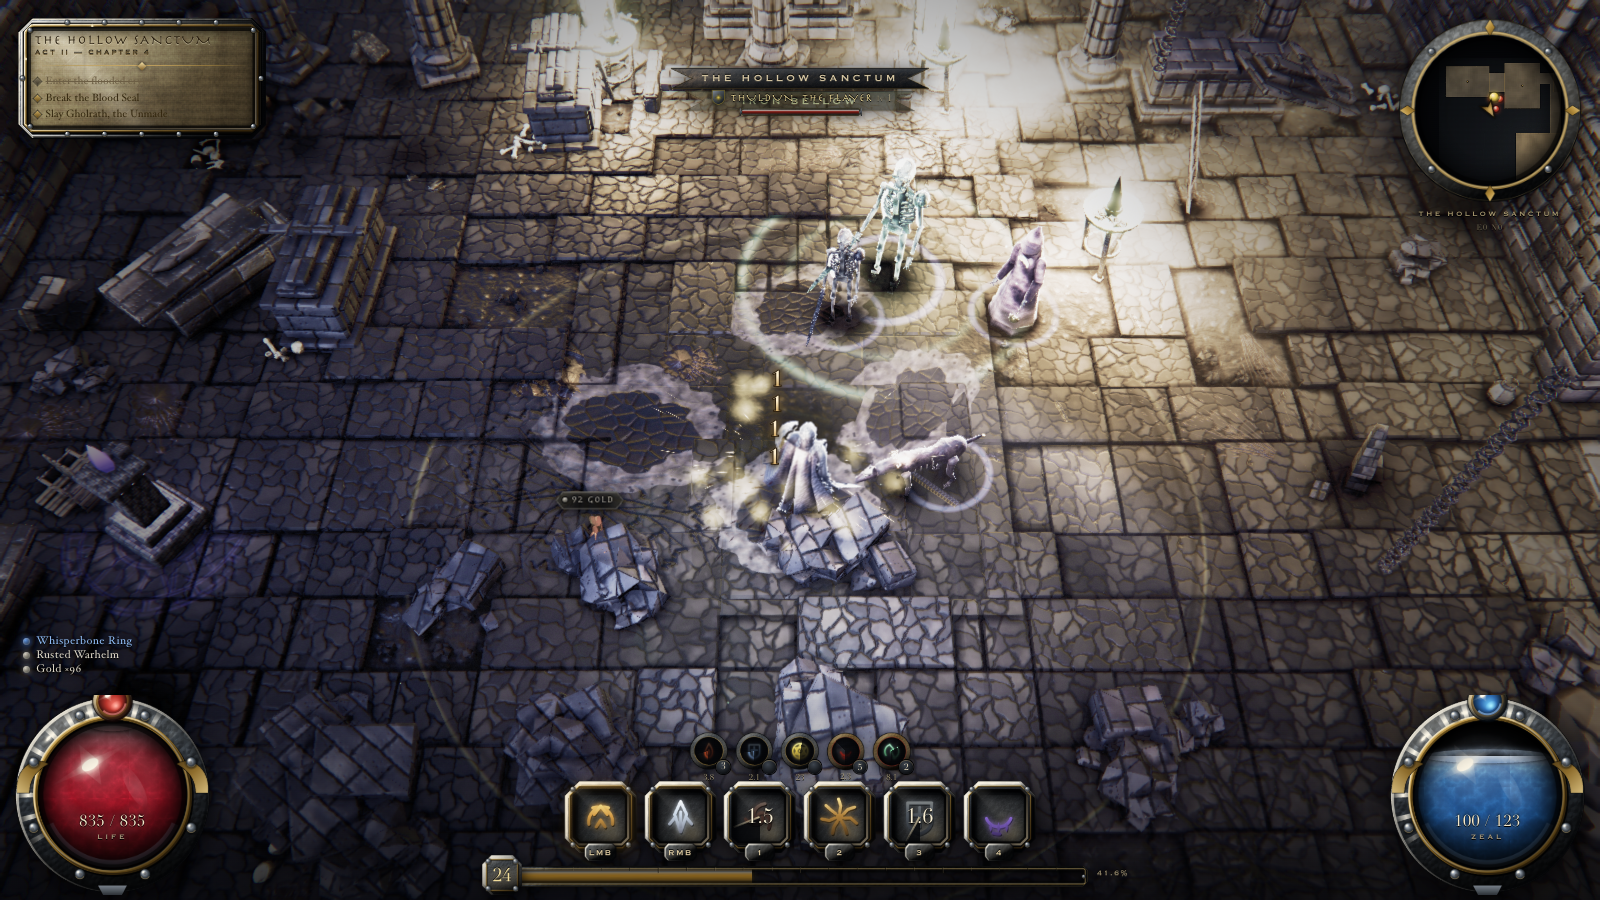
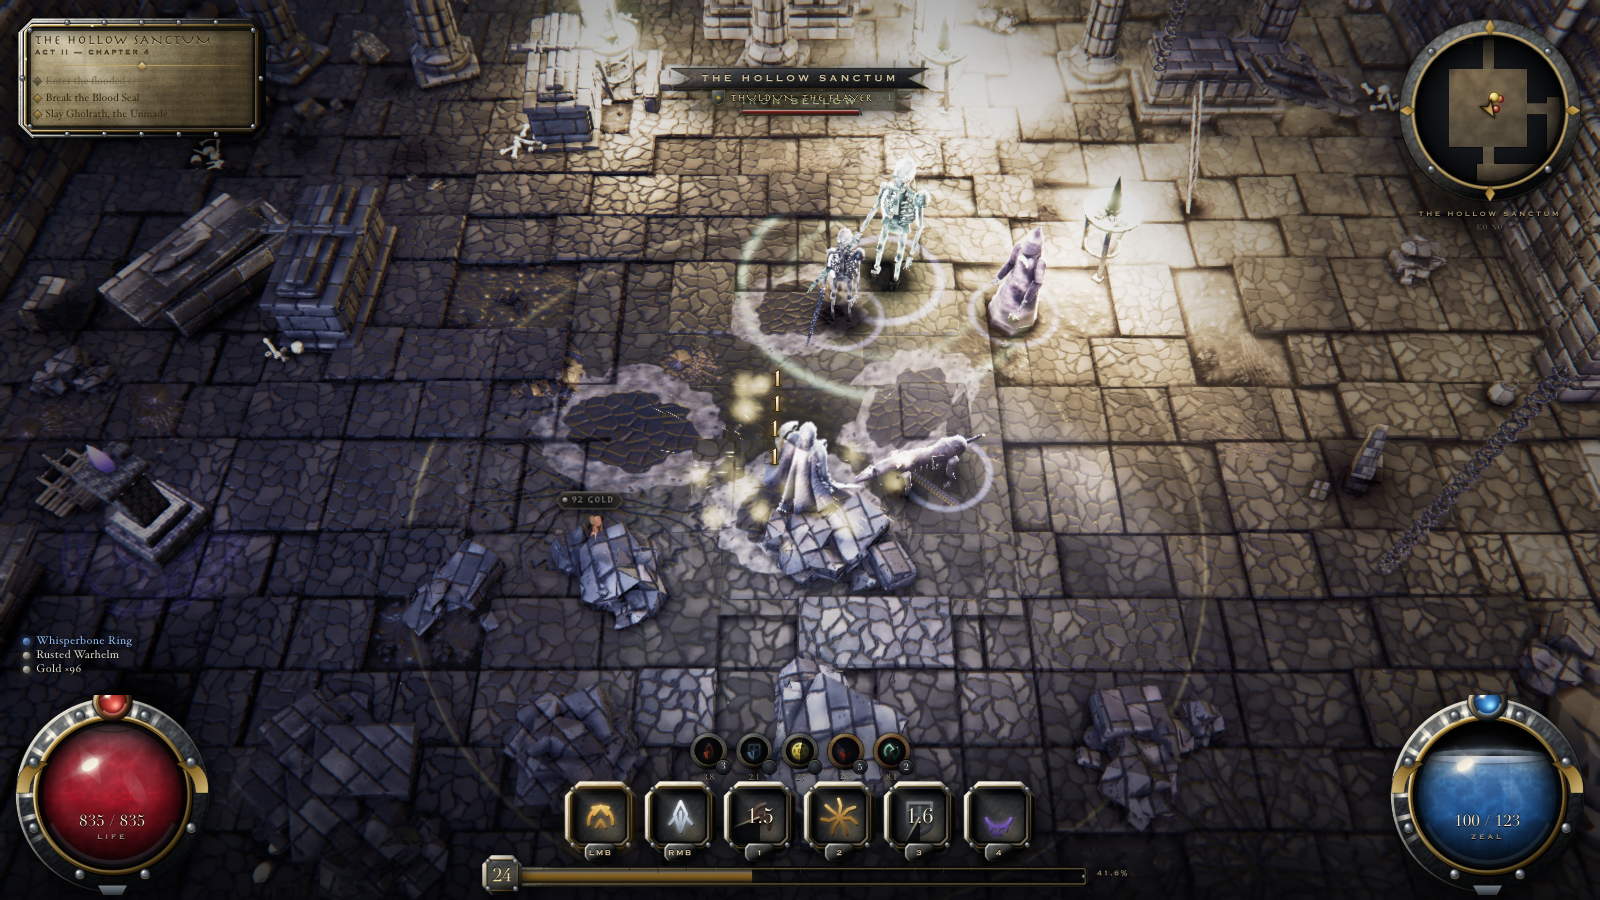
minimap, motion blur, dynamic resolution: fix the map, the sliding floor and the frame rate
Minimap: CSS background-position percentages are not offsets. p% places
the image at (container - image) * p, so the plate was panned to the
wrong place and the arrow sat in solid rock. Position is now
(0.5 - f*k) / (1 - k) for image/disc ratio k. Checked live: the hero's
cell is open floor, and the arrow sits in the corridor on the map.

Motion blur: velocity was the camera's movement between rendered frames.
At low frame rates one render spans several simulation ticks (measured:
1.3-2.2 on average, up to 5), so the follow camera's step hit the clamp
and the whole floor streaked around a walking hero. It is now per tick:
divided by the ticks since the last render. The capture harness renders
once per tick, so it is unaffected.

Frame rate: ultra rendered at the full 2x Retina pixel ratio, 4x the
pixels through SSR, GTAO and volumetrics (measured 16 fps at 1920x1080,
45-68 at 1x). Ultra now stops at 1.5x. The live loop also gets a dynamic
resolution governor: down a step below ~45 fps, back up above ~75 fps
with 4 s of hysteresis, steps 1 / 0.85 / 0.72 / 0.6. It is off for ?shot=
and headless. Measured at 1920x1080 with DPR 2: it settles at 0.9x and
54-57 fps.

shots/: the captures include the HUD, so the corrected minimap changes
every frame that shows it (dungeon and overworld differ only in the
minimap box). Recaptured all eight, which also replaces the three frames
that had already drifted on main (boss, hub, inventory). Seven reproduce
[…]

Changed region(s): [[0.9062, 0.0311, 0.9688, 0.2178]]

diff --git a/src/core/Engine.js b/src/core/Engine.js
@@ -56,6 +56,15 @@ export class Engine {
 
     this.quality = this._detectQuality();
     this.headless = new URLSearchParams(location.search).has('headless');
+
+    /* Dynamic resolution. The live loop scales the render pixel ratio down
+       when frames run long and back up when there is headroom; see
+       `_governResolution`. Off for the capture harness (`?shot=`, headless),
+       whose frames must not depend on how fast the machine is. */
+    this.renderScale = 1;
+    this._resIdx = 0;
+    this._resWin = { ms: 0, n: 0, changedAt: 0 };
+    this._resGovern = !this.headless && !new URLSearchParams(location.search).has('shot');
     this.paused = false;
 
     this._modules = new Map();
@@ -79,7 +88,9 @@ export class Engine {
       low:   { tier: 'low',   shadowRes: 1024, cascades: 2, ssao: false, ssr: false, taa: false, volumetric: false, dpr: Math.min(dpr, 1) },
       med:   { tier: 'med',   shadowRes: 2048, cascades: 3, ssao: true,  ssr: false, taa: true,  volumetric: true,  dpr: Math.min(dpr, 1) },
       high:  { tier: 'high',  shadowRes: 2048, cascades: 4, ssao: true,  ssr: true,  taa: true,  volumetric: true,  dpr: Math.min(dpr, 1.5) },
-      ultra: { tier: 'ultra', shadowRes: 4096, cascades: 4, ssao: true,  ssr: true,  taa: true,  volumetric: true,  dpr: Math.min(dpr, 2) },
+      // ultra stops at 1.5x: a full 2x Retina buffer is 4x the pixels through
+      // SSR, GTAO and volumetrics, measured at 16 fps where 1x ran 45-68.
+      ultra: { tier: 'ultra', shadowRes: 4096, cascades: 4, ssao: true,  ssr: true,  taa: true,  volumetric: true,  dpr: Math.min(dpr, 1.5) },
     };
     /* Own-property check, NOT `TIERS[tier] ?? null`. `??` only catches
        null/undefined, so an inherited Object.prototype member survives it:
@@ -161,7 +172,7 @@ export class Engine {
     const w = this.container.clientWidth || innerWidth;
     const h = this.container.clientHeight || innerHeight;
     this.width = w; this.height = h;
-    this.renderer.setPixelRatio(this.quality.dpr);
+    this.renderer.setPixelRatio(this.quality.dpr * this.renderScale);
     this.renderer.setSize(w, h, false);
     this.camera.aspect = w / h;
     this.camera.updateProjectionMatrix();
@@ -217,6 +228,7 @@ export class Engine {
     let frameMs = now - this._last;
     this._last = now;
     this.profiler.frame(frameMs);
+    if (this._resGovern) this._governResolution(frameMs, now);
     if (this.paused) { this.renderFrame(); return; }
 
     // Clamp so a stall never produces a spiral of death.
@@ -229,6 +241,29 @@ export class Engine {
     }
     this.clock.alpha = this._acc / FIXED_DT;
     this.renderFrame();
+  }
+
+  /**
+   * Step the render scale over one-second windows of real frame time: down a
+   * step below ~45 fps, back up above ~75 fps once the last change is 4 s old.
+   * The hysteresis keeps it from flapping, and the window after a change is
+   * discarded so the resize itself is not counted against the new scale.
+   */
+  _governResolution(ms, now) {
+    if (ms > 250) return;                       // a stall or a background tab, not load
+    const w = this._resWin;
+    w.ms += ms; w.n++;
+    if (w.ms < 1000) return;
+    const avg = w.ms / w.n;
+    w.ms = 0; w.n = 0;
+    let idx = this._resIdx;
+    if (avg > 1000 / 45 && idx < RES_STEPS.length - 1) idx++;
+    else if (avg < 1000 / 75 && idx > 0 && now - w.changedAt > 4000) idx--;
+    if (idx === this._resIdx) return;
+    this._resIdx = idx;
+    this.renderScale = RES_STEPS[idx];
+    w.changedAt = now;
+    this._onResize();
   }
 
   /**
@@ -253,6 +288,9 @@ export class Engine {
     this.renderer.dispose();
   }
 }
+
+/** Render-scale ladder for `_governResolution`, as fractions of the tier's pixel ratio. */
+const RES_STEPS = [1, 0.85, 0.72, 0.6];
 
 function hashStr(s) {
   let h = 2166136261;

diff --git a/src/render/passes/MotionBlurPass.js b/src/render/passes/MotionBlurPass.js
@@ -10,6 +10,7 @@ uniform sampler2D tDepth;
 uniform mat4  uInvViewProj;
 uniform mat4  uPrevViewProj;
 uniform float uIntensity;
+uniform float uTicks;
 uniform float uMaxRadius;
 uniform float uNear;
 uniform float uFar;
@@ -31,7 +32,7 @@ void main() {
   if ( prevClip.w <= 0.0 ) { gl_FragColor = base; return; }
   vec2 prevUv = ( prevClip.xy / prevClip.w ) * 0.5 + 0.5;
 
-  vec2 vel = ( vUv - prevUv ) * uIntensity;
+  vec2 vel = ( vUv - prevUv ) * ( uIntensity / uTicks );
   float len = length( vel );
   if ( len < 0.0006 ) { gl_FragColor = base; return; }
   if ( len > uMaxRadius ) vel *= uMaxRadius / len;
@@ -60,6 +61,13 @@ void main() {
  * with last frame's view-projection. Deterministic (both matrices come from the
  * fixed-step simulation), clamped to a few pixels, and skipped entirely for a
  * couple of frames after a camera teleport so scenario switches never smear.
+ *
+ * The velocity is per simulation TICK, not per rendered frame. Taken per frame,
+ * the smear grew with frame time: at 16 fps every render spans ~4 ticks, the
+ * follow camera's step hit the clamp on every pixel, and the whole floor
+ * streaked around a walking hero. Dividing by the ticks since the last render
+ * makes the blur the same at any frame rate. The capture harness renders once
+ * per tick, so its frames are unchanged.
  */
 export class MotionBlurPass extends QuadPass {
   constructor({ camera, depthTexture, params, taps = 7 }) {
@@ -71,6 +79,7 @@ export class MotionBlurPass extends QuadPass {
         uInvViewProj: { value: new THREE.Matrix4() },
         uPrevViewProj: { value: new THREE.Matrix4() },
         uIntensity: { value: 0.5 },
+        uTicks: { value: 1 },
         uMaxRadius: { value: 0.012 },
         uNear: { value: camera.near },
         uFar: { value: camera.far },
@@ -87,6 +96,8 @@ export class MotionBlurPass extends QuadPass {
     this._invViewProj = new THREE.Matrix4();
     this._skip = 2;
     this._primed = false;
+    this._lastTick = -1;
+    this._ticks = 1;
   }
 
   setDepthTexture(depthTexture) {
@@ -99,8 +110,12 @@ export class MotionBlurPass extends QuadPass {
     this._primed = false;
   }
 
-  /** Call once per rendered frame, before the composer runs. */
-  updateMatrices() {
+  /** Call once per rendered frame, before the composer runs, with the sim tick count. */
+  updateMatrices(tick) {
+    if (Number.isFinite(tick)) {
+      this._ticks = this._lastTick >= 0 ? Math.max(1, tick - this._lastTick) : 1;
+      this._lastTick = tick;
+    }
     const cam = this.camera;
     cam.updateMatrixWorld();
     if (this._primed) this._prevViewProj.copy(this._viewProj);
@@ -121,6 +136,7 @@ export class MotionBlurPass extends QuadPass {
     this.uniforms.uInvViewProj.value.copy(this._invViewProj);
     this.uniforms.uPrevViewProj.value.copy(this._prevViewProj);
     this.uniforms.uIntensity.value = p.motionBlur;
+    this.uniforms.uTicks.value = this._ticks;
     this.uniforms.uMaxRadius.value = p.motionBlurMax;
     this.uniforms.uNear.value = this.camera.near;
     this.uniforms.uFar.value = this.camera.far;

diff --git a/src/ui/panels/Minimap.js b/src/ui/panels/Minimap.js
@@ -300,8 +300,14 @@ export class Minimap {
     const scale = (this.footprint / this.windowM) * D;
     const fx = (hx - this.origin.x) / this.footprint;
     const fz = (hz - this.origin.z) / this.footprint;
+    /* A background-position percentage is not an offset: p% places the image
+       at (container - image) * p. The hero's point on the plate sits at the
+       disc centre when the image's left edge is at (0.5 - f * k) of the disc,
+       k = image / disc, so p = (0.5 - f * k) / (1 - k). */
+    const k = scale / D;
+    const pos = (f) => (Math.abs(1 - k) < 1e-6 ? 0 : ((0.5 - f * k) / (1 - k)) * D);
     this.map.style.backgroundSize = `${scale.toFixed(2)}% ${scale.toFixed(2)}%`;
-    this.map.style.backgroundPosition = `${(50 - fx * scale).toFixed(2)}% ${(50 - fz * scale).toFixed(2)}%`;
+    this.map.style.backgroundPosition = `${pos(fx).toFixed(3)}% ${pos(fz).toFixed(3)}%`;
 
     const yaw = hero?.yaw ?? 0;
     this.arrow.style.transform = `translate(-50%,-50%) rotate(${(yaw * 180 / Math.PI).toFixed(1)}deg)`;

diff --git a/src/render/RenderPipeline.js b/src/render/RenderPipeline.js
@@ -1541,7 +1541,7 @@ export class RenderPipeline {
       this._focus += (target - this._focus) * clamp(this.params.dofFocusLag, 0.01, 1);
       this.passes.dof.setFocus(this._focus);
     }
-    if (this.passes.motionBlur) this.passes.motionBlur.updateMatrices();
+    if (this.passes.motionBlur) this.passes.motionBlur.updateMatrices(this.engine.clock.frame);
     if (this.passes.grain) this.passes.grain.frame = this._frame;
     if (this.passes.composite) this.passes.composite.frame = this._frame;
 

diff --git a/KNOWN_ISSUES.md b/KNOWN_ISSUES.md
@@ -1,12 +1,17 @@
 # KNOWN ISSUES — authoritative open list
 
-Measured from the **eight captures committed in `3355968`** — "shots: recapture
-the crypt scenarios after the frost fix" — the last commit that touches `shots/`:
+Measured from the **eight captures recaptured with the minimap fix** (the
+captures include the HUD, and the minimap had been panned to the wrong place),
+the last commit that touches `shots/`:
 
 ```bash
-git log -1 --format='%h %s' -- shots/        # 3355968 shots: recapture the crypt scenarios after the frost fix
-git rev-list --count 3355968..HEAD -- shots/ # 0
+git log -1 --format='%h %s' -- shots/        # minimap, motion blur, dynamic resolution ...
 ```
+
+The previous set (`3355968`) had drifted before that: fresh captures differed
+from `boss` by 85.6%, `hub` by 3.9% and `inventory` by 1.6% of pixels. The new
+set reproduces: seven frames byte-identical on a second capture, `night` within
+1-5 px at Δ ≤ 6/255.
 
 The previous revision of this table said it was measured after the cascade fix
 `d2aad35`. That object is not in this repository (`git cat-file -t d2aad35` →
@@ -24,14 +29,14 @@ until the flags are at zero.
 
 | scenario | mean | sd | p01 | p99 | blk% | sat | colors | verdict |
 |---|---|---|---|---|---|---|---|---|
-| boss | 0.173 | 0.178 | 0 | 0.844 | 3.3 | 0.318 | 532 | in range |
+| boss | 0.191 | 0.202 | 0 | 0.906 | 2.4 | 0.314 | 582 | in range |
 | closeup | 0.259 | 0.207 | 0 | 0.781 | 2.3 | 0.209 | 158 | in range |
-| combat | 0.280 | 0.211 | 0 | 0.875 | 1.3 | 0.269 | 447 | in range |
-| dungeon | 0.274 | 0.215 | 0 | 0.875 | 1.6 | 0.252 | 331 | in range |
-| hub | 0.143 | 0.164 | 0 | 0.813 | 9.4 | 0.298 | 315 | in range |
-| inventory | 0.208 | 0.192 | 0 | 0.844 | 7.4 | 0.266 | 313 | in range |
-| night | 0.189 | 0.209 | 0 | 0.906 | 13.7 | 0.339 | 550 | in range |
-| overworld | 0.265 | 0.204 | 0 | **0.750** | 3.6 | 0.220 | 370 | in range — p99 is 0.030 over the 0.72 floor |
+| combat | 0.281 | 0.211 | 0 | 0.875 | 1.1 | 0.269 | 446 | in range |
+| dungeon | 0.275 | 0.215 | 0 | 0.875 | 1.5 | 0.252 | 331 | in range |
+| hub | 0.146 | 0.165 | 0 | 0.813 | 8.7 | 0.297 | 316 | in range |
+| inventory | 0.208 | 0.192 | 0 | 0.844 | 7.2 | 0.266 | 313 | in range |
+| night | 0.191 | 0.209 | 0 | 0.906 | 13.3 | 0.336 | 549 | in range |
+| overworld | 0.266 | 0.203 | 0 | **0.750** | 3.2 | 0.219 | 368 | in range — p99 is 0.030 over the 0.72 floor |
 
 `sheet.mjs` warns when `p99 < 0.72`, so `overworld` clears the highlight floor by
 **0.030** and is the tightest frame in the table — five of the eight scenarios sit

diff --git a/HANDOFF.md b/HANDOFF.md
@@ -75,9 +75,9 @@ is no tree to recover.
 
 **What is actually current:**
 
-- The eight canonical captures are the ones committed in `3355968`, and all eight
-  pass `node tools/sheet.mjs --analyze`. Every number in `KNOWN_ISSUES.md` is
-  measured against those PNGs, and `shots/` has not changed since.
+- The eight canonical captures were recaptured with the minimap fix, and all
+  eight pass `node tools/sheet.mjs --analyze`. Every number in `KNOWN_ISSUES.md`
+  is measured against those PNGs.
 - Open instant-fail work is `KNOWN_ISSUES.md` §2 (blown additive discs, sev 8) and
   §5 (untextured blue-grey rubble, sev 8). §4 (pale enemy materials) is half landed:
   the value half, not the surface half. §6 (tiling) is open and is now purely an
